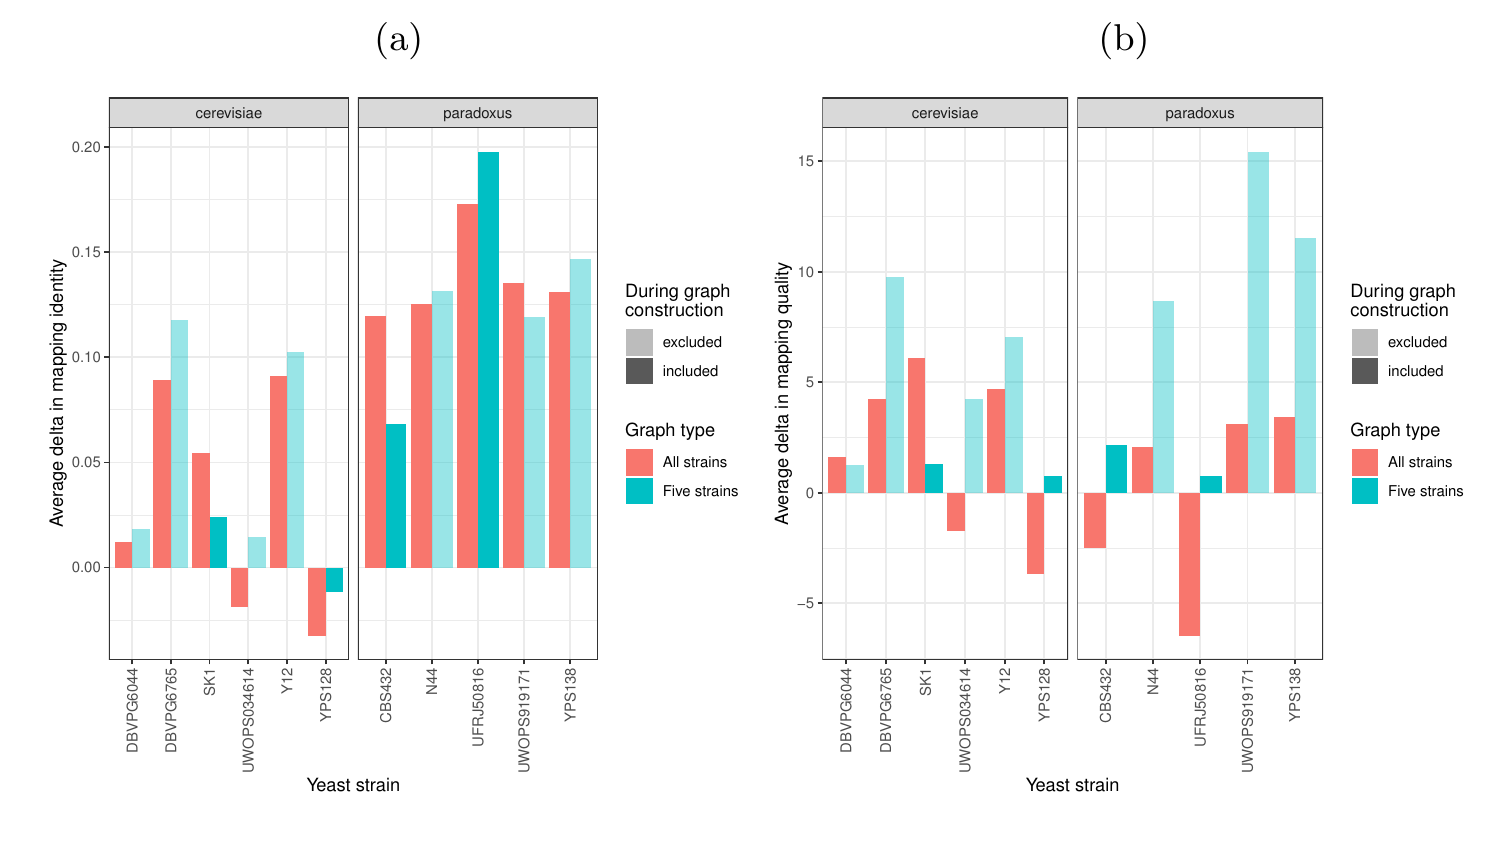
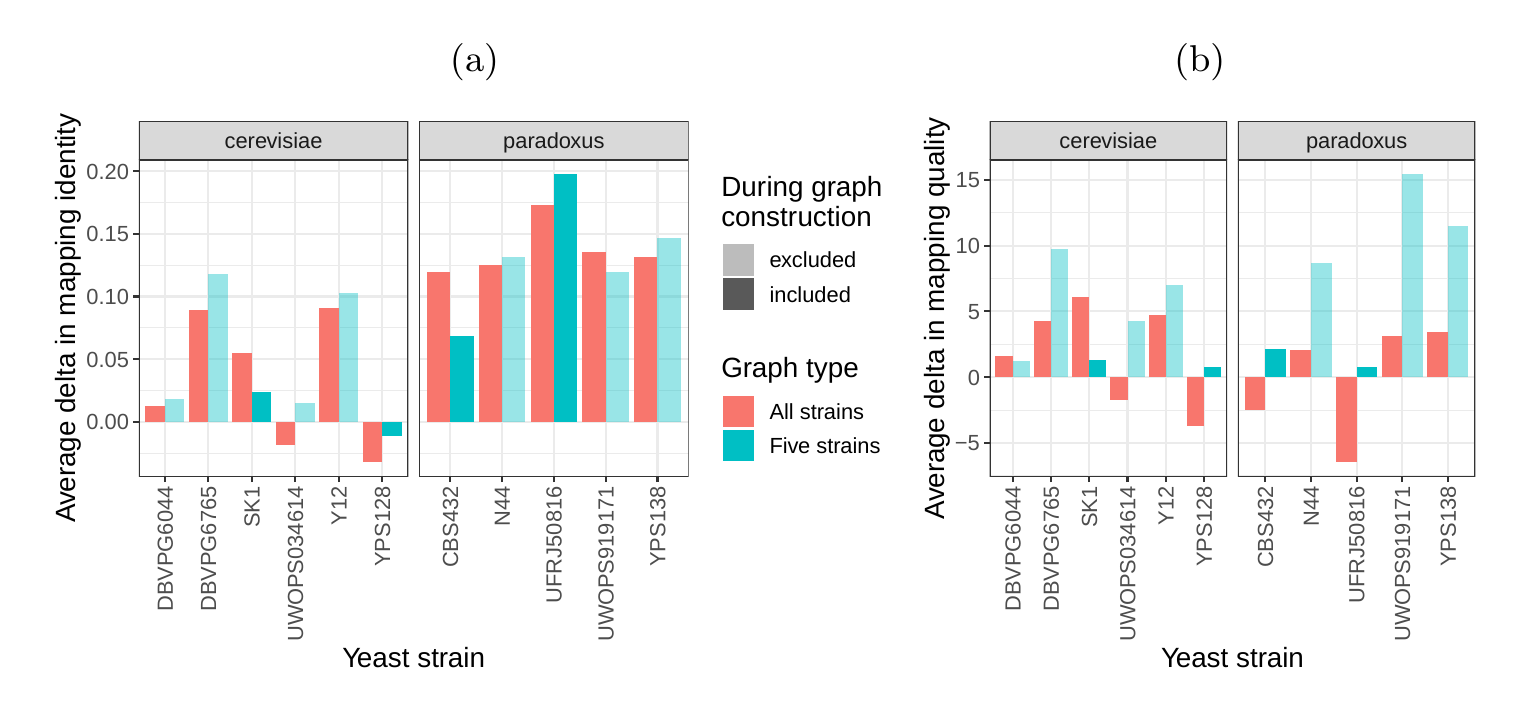
polish fig; minor edits

diff --git a/figures/panels.tex b/figures/panels.tex
@@ -52,11 +52,11 @@
 %% PANEL 4
 \clearpage
 \begin{figure}
-  \begin{subfigure}[b]{.5\textwidth}
+  \begin{subfigure}[b]{.6\textwidth}
     \caption{}
     \includegraphics[width=\textwidth]{pdf/yeast-genotyping-identity-SVregions.pdf}
   \end{subfigure}
-  \begin{subfigure}[b]{.5\textwidth}
+  \begin{subfigure}[b]{.4\textwidth}
     \caption{}
     \includegraphics[width=\textwidth]{pdf/yeast-genotyping-quality-SVregions.pdf}
   \end{subfigure}
@@ -78,11 +78,11 @@
 %% PANEL 6 (Supplementary)
 \clearpage
 \begin{figure}
-  \begin{subfigure}[b]{.5\textwidth}
+  \begin{subfigure}[b]{.6\textwidth}
     \caption{}
     \includegraphics[width=\textwidth]{pdf/yeast-genotyping-identity-allregions.pdf}
   \end{subfigure}
-  \begin{subfigure}[b]{.5\textwidth}
+  \begin{subfigure}[b]{.4\textwidth}
     \caption{}
     \includegraphics[width=\textwidth]{pdf/yeast-genotyping-quality-allregions.pdf}
   \end{subfigure}

diff --git a/content/03.results.md b/content/03.results.md
@@ -124,7 +124,7 @@ To do so, we analyzed public sequencing datasets for 12 yeast strains from two r
 We distinguished two different strain sets, in order to assess how the completeness of the graph affects the results. 
 For the *all strains set*, all 12 strains were used, with *S.c. S288C* as the reference strain.
 For the *five strains set*, *S.c. S288C* was used as the reference strain, and we selected two other strains from each of the two clades (see [Methods](#yeast-graph-analysis)).
-We compared genotyping results from two different types of genome graphs:
+We compared genotyping results from two different types of genome graphs.
 The first graph (*VCF graph*) was created from the linear reference genome of the *S.c. S288C* strain and a set of SVs relative to this reference strain in VCF format identified from the other assemblies in the respective strain set by three methods: Assemblytics [@doi:10.1093/bioinformatics/btw369], AsmVar [@doi:10.1186/s13742-015-0103-4] and paftools [@doi:10.1093/bioinformatics/bty191].
 The second graph (*cactus graph*) was derived from a multiple genome alignment of the strains in the respective strain set using Cactus [@doi:10.1101/gr.123356.111].
 The *VCF graph* is mostly linear and highly dependent on the reference genome.
@@ -151,10 +151,8 @@ For most strains, we observed an improvement in mapping quality of the short rea
 Short reads from all 11 non-reference yeast strains were used to genotype SVs contained in the *cactus graph* and the *VCF graph*. 
 Subsequently, sample graphs were generated from the resulting SV callsets. 
 The short reads were aligned to the sample graphs and reads with identical mapping identity and quality across both sample graphs and an additional empty sample graph were removed from the analysis.
-Then, the quality of the remaining, divergent alignments was used to ascertain SV genotyping performance.
-More accurate genotypes should result in sample graphs that have mappings with high identity and confidence for a greater proportion of the reads.
-a) Average delta in mapping identity of divergent short reads aligned to the sample graphs derived from *cactus graph* and *VCF graph*.
-b) Average delta in mapping quality of divergent short reads aligned to the sample graphs derived from *cactus graph* and *VCF graph*.
+The quality of the remaining divergent alignments was used to ascertain SV genotyping performance.
+The bars show the average delta in mapping identity (a) and in mapping quality (b) of divergent short reads aligned to the sample graphs derived from *cactus graph* and *VCF graph*.
 Positive values denote an improvement of the *cactus graph* over the *VCF graph*.
 Colors represent the two strain sets and transparency indicates whether the respective strain was part of the *five strains set*.
 ](images/panel4.png){#fig:4}

diff --git a/content/05.methods.md b/content/05.methods.md
@@ -183,6 +183,7 @@ We also explored the performance of vg and SMRT-SV v2 in different sets of regio
 For the analysis of graphs from *de novo* assemblies, we utilized publicly available PacBio-derived assemblies and Illumina short read sequencing datasets for 12 yeast strains from two related clades (Table {@tbl:strains}) [@doi:10.1038/ng.3847].
 We constructed graphs from two different strain sets:
 For the *five strains set*, we selected five strains for graph contruction (two from different subclades of each clade plus the reference *S.c. S288C*): *S.c. SK1*, *S.c. YPS128*, *S.p. CBS432*, *S.p. UFRJ50816*, and *S.c. S288C*.
+[//]: # (How were the strains selected? Randomly?)
 For the *all strains set*, we utilized all twelve strains for graph contruction.
 We constructed two different types of genome graphs from the PacBio-derived assemblies of the five or twelve (depending on the strains set) selected strains.
 In this section, we describe the steps for the construction of both graphs and the calling of variants.
@@ -236,3 +237,4 @@ We mapped the short reads also to an empty sample graph that was generated using
 In an effort to restrict our analysis to SV regions, we removed reads that mapped equally well (i.e. with identical mapping quality and percent identity) to all three graphs (the two sample graphs and the empty sample graph) from the analysis.
 These filtered out reads most likely stem from portions of the strains' genomes that are identical to the reference strain *S.c. S288C*.
 We analyzed the remaining alignments of reads from SV regions with `vg view` and `jq`.
+
